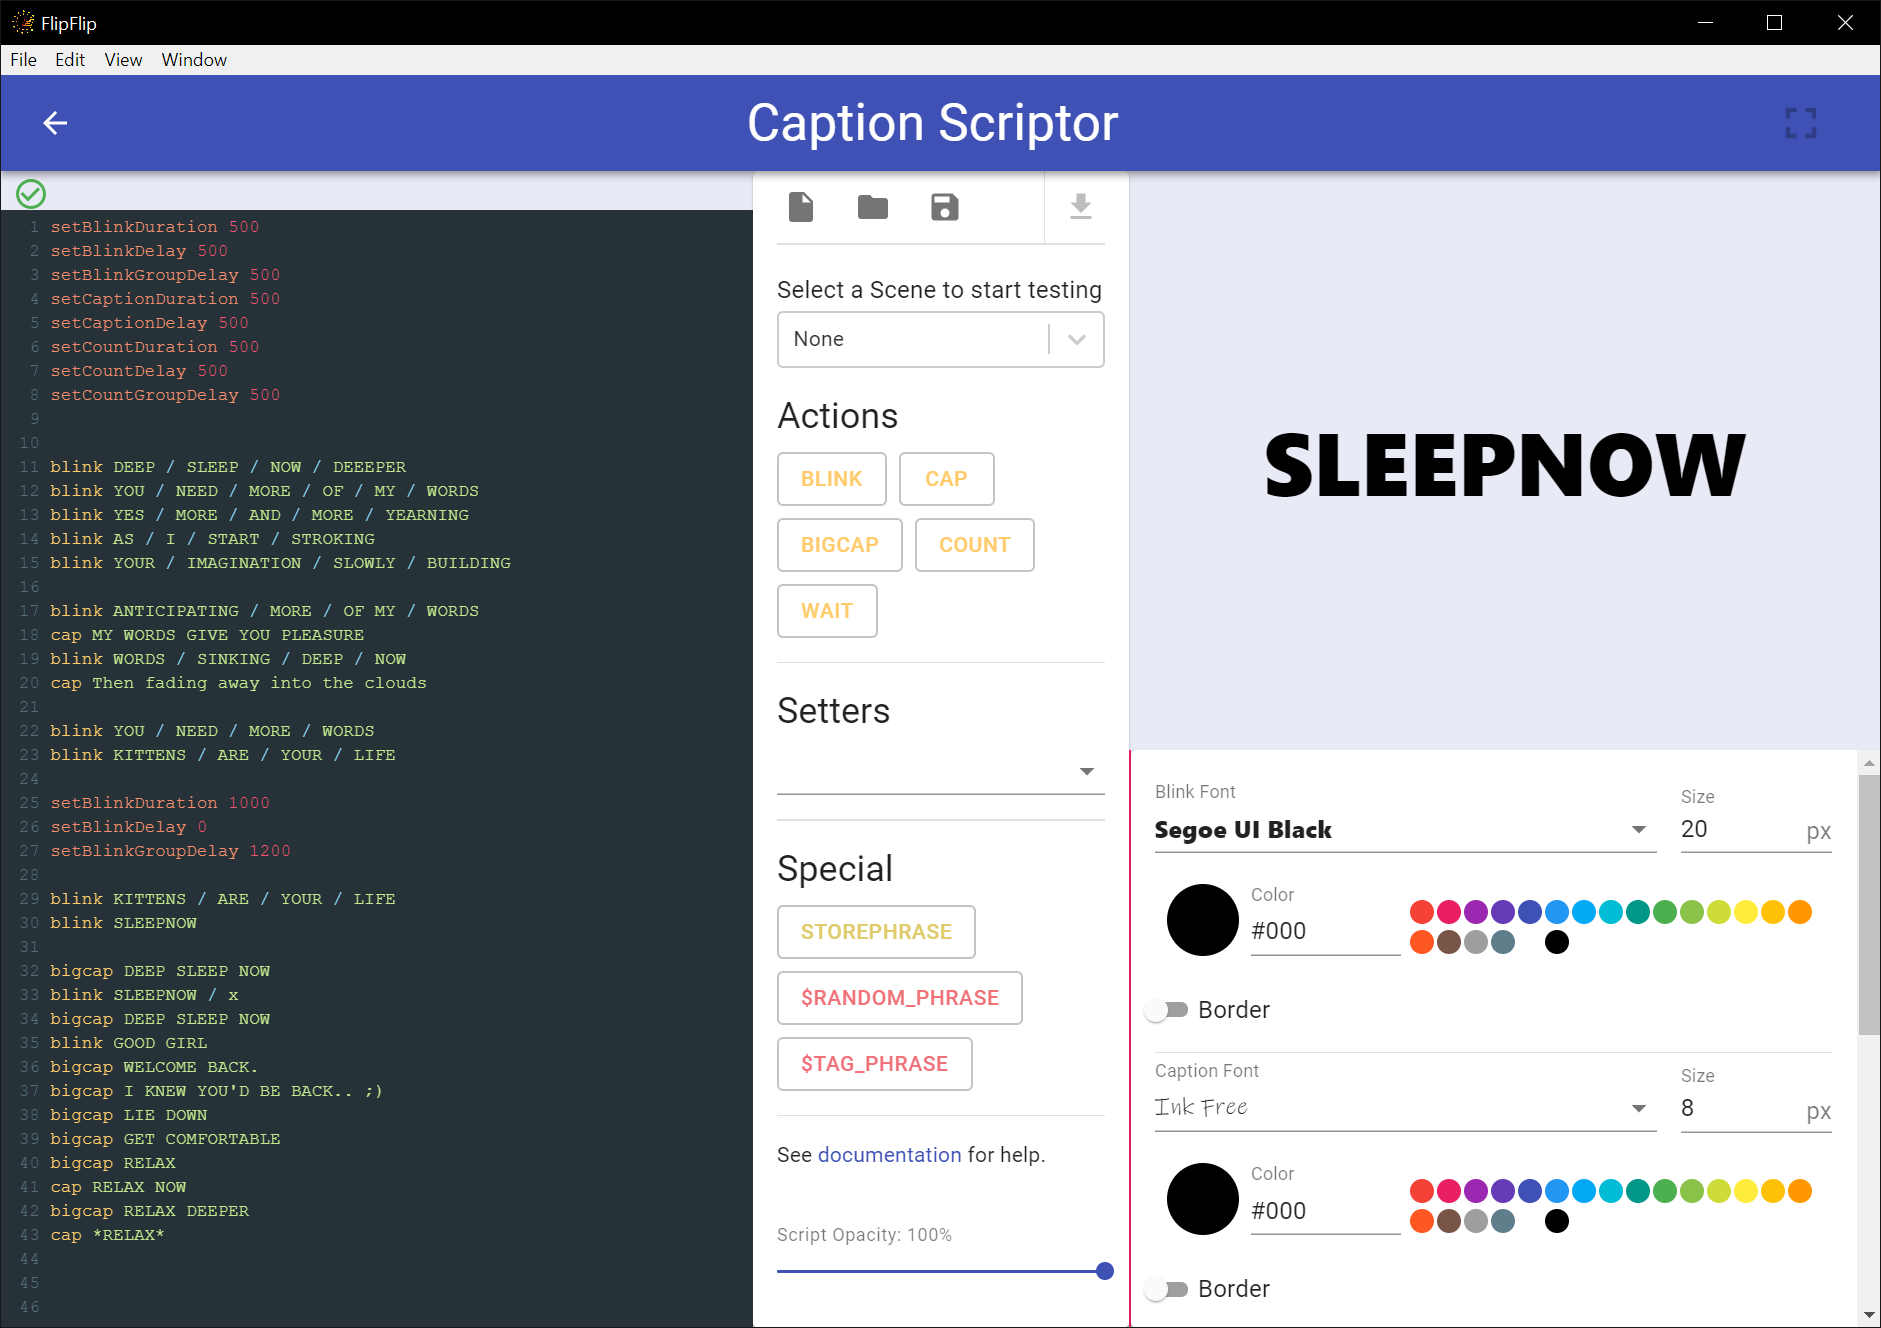
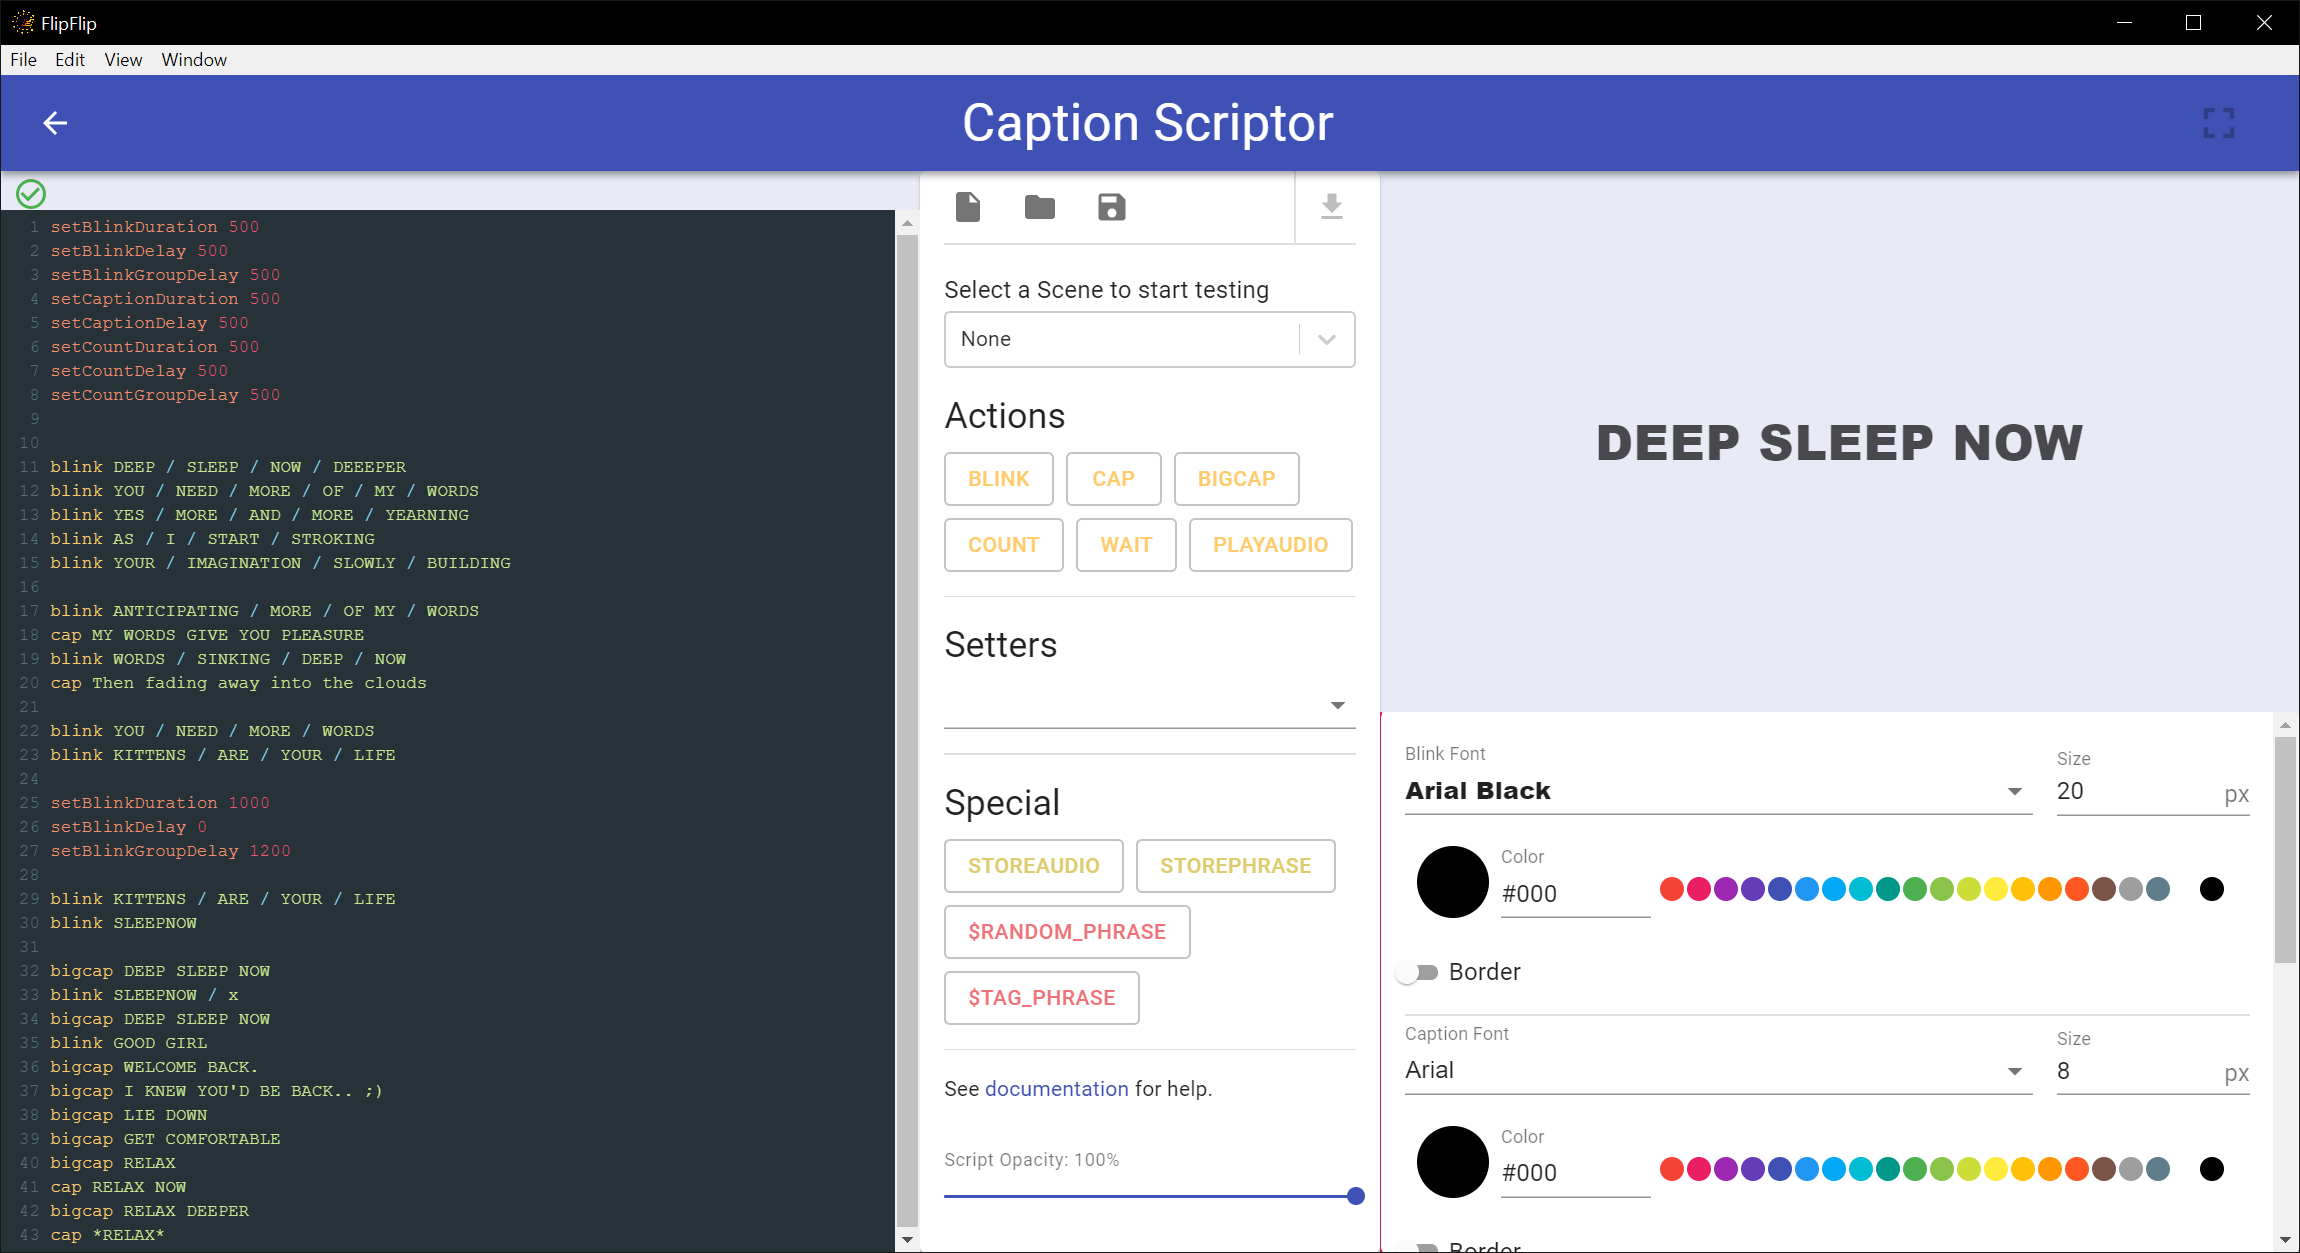
Prep for v3.1.1

diff --git a/src/renderer/components/Tutorial.tsx b/src/renderer/components/Tutorial.tsx
@@ -486,7 +486,10 @@ class Tutorial extends React.Component {
             <DialogTitle id="tutorial-title">Next Scene</DialogTitle>
             <DialogContent>
               <DialogContentText id="tutorial-description">
-                You can <b>link scenes together</b>! Just choose the <b>next scene</b> to play and <b>how many <u>seconds</u></b> it should start after. You can also choose to start the next scene after all images in this scene have been shown.
+                You can <b>link scenes together</b>! Just choose the <b>next scene</b> to play and <b>how many <u>seconds</u></b> it
+                should start after. You can also choose to start the next scene after all images in this scene have
+                been shown or after a particular audio track/caption script have finished. This section will also
+                allow you to persist this Scene's audio/text effects even after transitioning to the Next Scene.
               </DialogContentText>
               <DialogContentText id="tutorial-description">
                 <i>We'll leave this disabled for this tutorial</i>

diff --git a/src/renderer/components/player/ImagePlayer.tsx b/src/renderer/components/player/ImagePlayer.tsx
@@ -215,7 +215,7 @@ export default class ImagePlayer extends React.Component {
     if (this.props.scene.backForth && this._backForth == null && this.props.isPlaying && this.props.hasStarted) {
       clearTimeout(this._backForth);
       this._backForth = null;
-      setTimeout(() => this.advance(true, true), 200);
+      setTimeout(() => this.advance(true, false), 200);
       this._backForth = setTimeout(this.backForth.bind(this, -1), this.getBackForthTiming());
     }
 

diff --git a/docs/options.md b/docs/options.md
@@ -19,7 +19,14 @@ or based on **audio BPM**.
 <img src="doc_images/timing_ex.gif" alt="Timing Example">
 
 _An example of **Wave** timing_
-  
+
+#### Back/Forth
+The back/forth feature automatically toggles between the 2 most recent images in a Scene at a set interval. 
+
+<img src="doc_images/backforth_ex.gif" alt="Back Forth Example" style="width: 483px">
+
+_An example of **Back/Forth** every 200ms_
+
 #### Image Sizing
 This setting controls the aspect ratio and size of the displayed image:
 * **Fit Best (No Clipping)**
@@ -39,14 +46,17 @@ This setting controls the background for this Scene:
 * **None**
 
 #### Next Scene
-Choose a Scene to transition to after this one (or none). Control the timing of the Next Scene (sec) and if the Next 
-Scene should play after all images from the current Scene have played.
+Choose a Scene to transition to after this one (or none). Control the timing of the Next Scene (sec)
+
+* **Play After All Images** - Instead of using a fixed time, transition to the Next Scene after all images in this 
+  scene have played
+  * You can also choose to move to the next scene after an audio clip has ended or after a captioning script has completed.
+    You will find these options in the audio and text options, respectively.
+* **Persist Audio** - Persist the Audio tracks of this scene through all subsequent Next Scenes
+* **Persist Text Overlay** - Persist the Text Overlay scripts of this scene through all subsequent Next Scenes
 
 Rather than picking a single scene, you can select "Random". Click <img style="vertical-align: -5px" src="doc_icons/list.svg" alt="List" width="20" height="20">
 to select the scenes you'd like to be randomly picked from.
-
-You can also choose to move to the next scene after an audio clip has ended or after a captioning script has completed.
-You will find these options in the audio and text settings, respectively.
 
 ?> The "Next Scene" will pre-load in the background and start when a configured end condition is met (time, images, audio, text). 
 Scene options, effects, audio/text, etc. will also change as configured.
@@ -54,8 +64,7 @@ Scene options, effects, audio/text, etc. will also change as configured.
 #### Overlay
 Add Scene(s) to overlay over this one (or none). Control each overlay opacity.
 
-?> There is no limit to the number of scenes you can use with grid/overlay, 
-but you may experience poor performance if you use too many.
+?> There is no limit to the number of scenes you can overlay, but you may experience poor performance if you use too many.
 
 ## Image Options
 

diff --git a/docs/changelog.md b/docs/changelog.md
@@ -1,10 +1,14 @@
 # Changelog
 
-## 3.1.1 <small>(03/08/2021)</small>
+## 3.1.1 <small>(03/XX/2021)</small>
+- Allow Scenes to use Grids as overlays
+- Add Back/Forth option
 - Add BPM Detection to Audio Library
 - Add warning when using 'Audio BPM' timing, but with no BPM metadata 
 - Add ability to recursively import directories of videos/audio/scripts
 - Add option to prevent Portable Mode from saving locally
+- Add options to persist audios/captions through Next Scenes
+- Allow caption script to trigger audio files
 - Show sort button while importing from library
 - Allow video controls to skip to the next source during Scene playback
 - Improve some booru scraping
@@ -13,6 +17,8 @@
 - Fix bug with Portable Mode
 - Fix bug with library source IDs
 - Fix bug with RedGif parsing
+- Fix bug with grid loading
+- Fix bug with auto-generation of overlays/grids
 
 ## 3.1.0 <small>(02/17/2021)</small>
 - Add ability to detect and use video duration/resolution

diff --git a/docs/caption_script.md b/docs/caption_script.md
@@ -221,6 +221,19 @@ Where `TIMESTAMP` is in one of these format:
 ?> **Setters need timestamps** as well to be used in the script. For this reason, we recommend you **separate 
 timestamp and non-timestamp scripts**, as using both in the same file can have unexpected effects.
 
+## Audio
+
+You can make audio tracks play during your script by first storing them, and then calling `playAudio <ALIAS> <VOLUME>`. 
+The audio track will start at the beginning and play until the end. 
+
+```
+# storeAudio <FILE> <ALIAS>
+storeAudio "C:\audio\finger_snap.wav" snap
+
+<other caption syntax>
+# playAudio <ALIAS> <VOLUME: Default 100>
+playAudio snap 25
+```
 
 ## Random phrases
 

diff --git a/docs/scriptor.md b/docs/scriptor.md
@@ -5,7 +5,7 @@ local file or from your Script Library.
 
 ?> All scripts must be in the [caption script format](caption_script.md)
 
-<img src="doc_images/scriptor.png" alt="Options" width="50%" style="min-width: 483px">
+<img src="doc_images/scriptor.png" alt="Options" width="75%" style="min-width: 483px">
 
 ## Code
 
